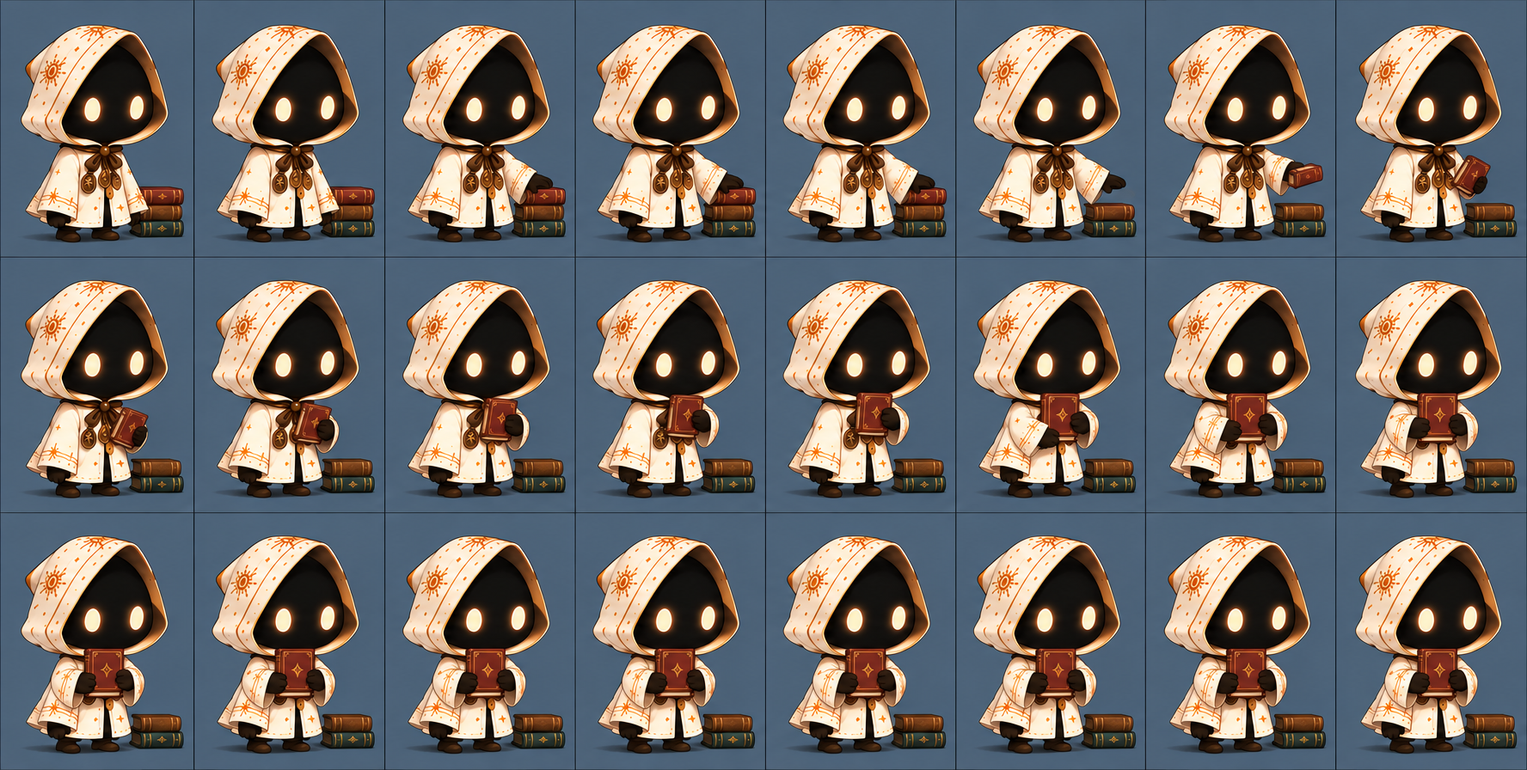
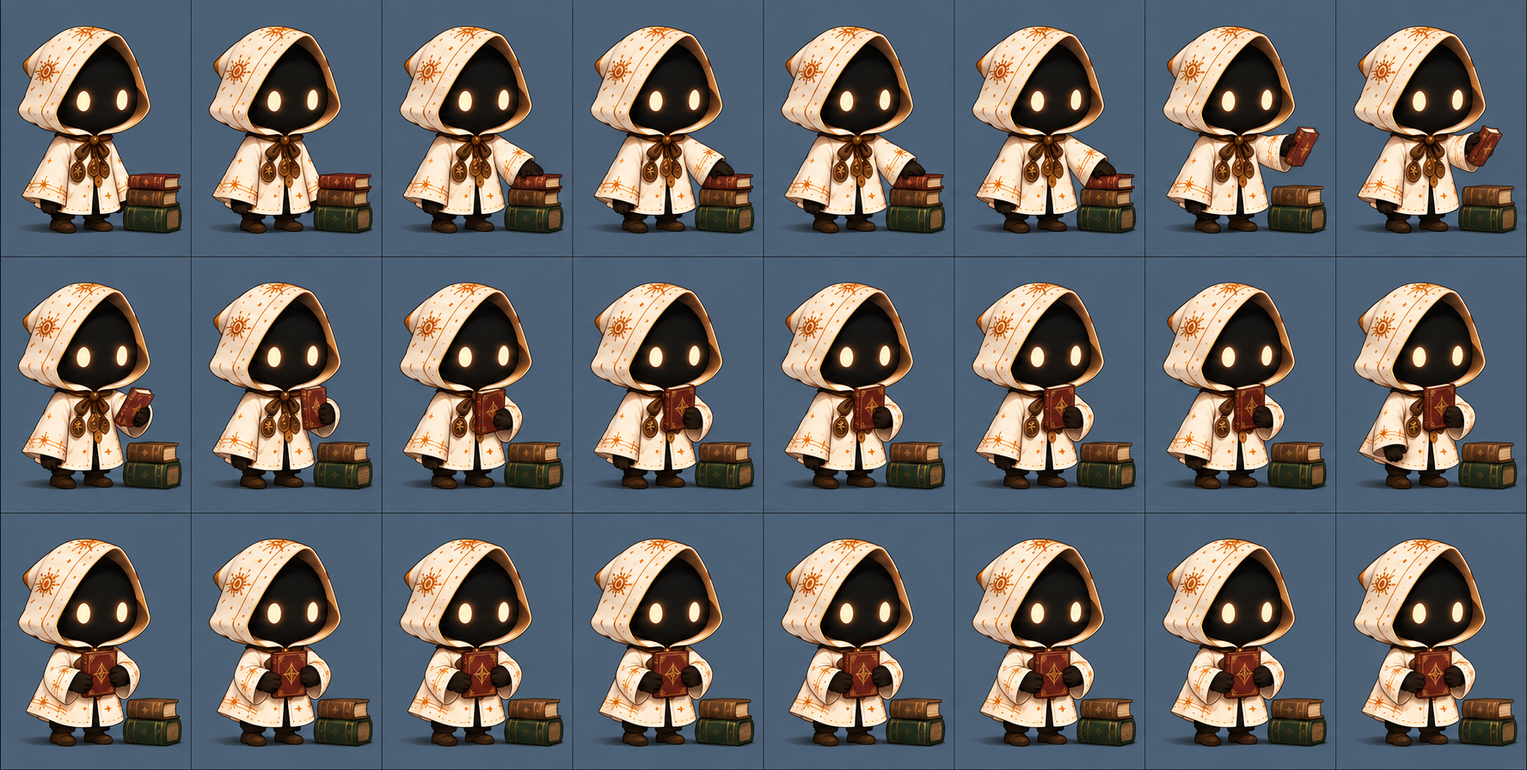
fix: Lumi's feet hold still in every loop; the pick-up has two hands
Chanté: "her feet look a little jittery". With the baked shadow gone the boots'
edge sat on bare floor, and each loop took the boots' upper rows from its own
sheet (0.25-0.38px at the hand-over; 1.5px in the pick-up). The strip below
the hem around the boots is now the rest drawing's in every cell, the breath
included, except where a cell's own cloak hangs over it, and the moving
regions run to the ground. Boots move at most 0.004px in any loop.

Chasing the pick-up's step found its sheet had three hands (two on the book,
one still at the hem). Regenerated as v3, naming the resting hand and saying
it leaves the hem; two hands throughout.

The preview's held-parts check measures the boots from the hem down and has
--feet-only for the breath. Docs: design-system, art/README, the prompt file,
animation-pipeline (a hands check in the gates, a finding, two pitfalls, the
ledger row), art-direction.

diff --git a/scripts/cut-lumi-free.py b/scripts/cut-lumi-free.py
@@ -97,19 +97,42 @@ col0 = int((hx.min() + hx.max()) / 2)
 face_left = int(np.where(face(rest)[0][:head_rows].any(axis=0))[0].min())
 feet_right = int(np.where((rest[FEET_Y - 10:FEET_Y, :, 3] > 200).any(axis=0))[0].max())
 print(f'rest: hood centre col {col0}, head rows < {head_rows}, face from col {face_left}, boots to col {feet_right}')
+# The boots below the hem, held in every cell of every loop. With the baked shadow gone their edge sits on the
+# floor with nothing under it, and Chanté saw her feet jitter: the loops took the boots' upper rows from each
+# cell's own drawing (the holds stopped 8px above the feet), and the breath resampled them by up to 0.2px a frame.
+hem = int(np.where(((rest[:, :, 0] > 190) & (rest[:, :, 1] > 170) & (rest[:, :, 3] > 200)).any(axis=1))[0].max())
+boot_cols = np.where(((rest[FEET_Y - 4:FEET_Y + 1, :, :3].astype(int).sum(axis=2) < 200) & (rest[FEET_Y - 4:FEET_Y + 1, :, 3] > 200)).any(axis=0))[0]
+# Only the boots and legs — the opaque parts below the hem that reach the ground — never her hands hanging at the
+# hem, which leave in the hands and pick-up loops (a box over the boots brought a stub of the resting hand back).
+# The whole strip below the hem around the boots is REST's — boots, legs and the floor between and beside them — so
+# a sheet that draws a leg further out (the pick-up's, 1.5px) can't step either. The hands end at the hem, and a
+# prop stands right of `feet_right`, outside the strip.
+feet = np.zeros((H, W), bool)
+feet[hem + 1:, max(0, boot_cols.min() - 12):min(boot_cols.max() + 3, feet_right + 3)] = True
+feet_w = ndi.gaussian_filter(feet.astype(float), 1.0)[:, :, None]
+print(f'feet held: rows from {hem + 1}, cols {max(0, boot_cols.min() - 12)}–{min(boot_cols.max() + 2, feet_right + 2)}')
+
+
+def hold_feet(cell, base):
+    """`cell` with `base`'s boots below the hem, feathered — except where the cell's own cloak hangs over them (a hem
+    drawn lower in a pose), which stays in front; pasting the rest pose's leg there left a dark smudge on the cream."""
+    cloak = (cell[:, :, 0] > 190) & (cell[:, :, 1] > 170) & (cell[:, :, 3] > 200)
+    w = feet_w * (1 - ndi.gaussian_filter(ndi.binary_dilation(cloak, iterations=1).astype(float), 0.8))[:, :, None]
+    return straight(w * premul(base) + (1 - w) * premul(cell))
 
 
 def allowed(region):
     """Where a loop's moving part may be."""
     m = np.zeros((H, W), bool)
+    # Down to the ground: a hand hanging at the hem reaches below the boots' tops, and a region that stopped 8px above
+    # the feet kept the bottom of the resting hand after it had left. The boots are held separately (`hold_feet`).
     if region == 'left':          # her right arm, on the viewer's left, beside the hood but never over the face
-        m[:FEET_Y - 8, :col0] = True
+        m[:, :col0] = True
         m[:head_rows, face_left - 2:] = False
     elif region == 'front':       # both hands, below the chin
-        m[head_rows:FEET_Y - 8] = True
+        m[head_rows:] = True
     elif region == 'below-head':  # arms, hands and what they carry, and a prop standing beside her
-        m[head_rows:FEET_Y - 8] = True
-        m[head_rows:, feet_right + 3:] = True
+        m[head_rows:] = True
     return m
 
 
@@ -219,12 +242,13 @@ for spec in LOOPS:
         joins += [(moving[-1] - k, k) for k in range(spec.get('ease', 0))]
     for i, k in joins:
         cells[i] = ease(cells[i], base, (k + 1) / (spec['ease'] + 1))
+    cells[:] = [hold_feet(c, base) for c in cells]
     if with_prop:
         cells[:0] = [with_prop(t) for t in PROP_FADE]
 
 rises = [BREATH_RISE * (1 - np.cos(2 * np.pi * i / BREATH_FRAMES)) / 2 for i in range(BREATH_FRAMES)]
 lids = lambda cell, keep: cell if keep is None else eyes_shut(cell, keep)
-rows = [[breathe(lids(rest, keep), r, FEET_Y, FIGURE_H) for r in rises] for keep in (None, 0.5, 0.2)]
+rows = [[hold_feet(breathe(lids(rest, keep), r, FEET_Y, FIGURE_H), rest) for r in rises] for keep in (None, 0.5, 0.2)]
 rows += [cut[spec['name']] for spec in LOOPS]
 cols = max(len(r) for r in rows)
 body = np.zeros((H * len(rows), W * cols, 4), dtype=np.uint8)

diff --git a/scripts/preview-lumi-loop.py b/scripts/preview-lumi-loop.py
@@ -72,12 +72,17 @@ def offset(ref, a, mask):
 
 
 head = np.zeros((H, W), bool); head[:HEAD_ROWS, held_from:] = True
-boots = np.zeros((H, W), bool); boots[FEET_Y - 10:FEET_Y + 2] = True
+# the boots from just below the hem: rows closer to the feet alone missed boots taken from each cell's drawing,
+# which jittered once no baked shadow hid their edge (2026-09-13)
+boots = np.zeros((H, W), bool); boots[FEET_Y - 14:FEET_Y + 2] = True
+if '--feet-only' in sys.argv:   # a loop whose head moves by design (the breath)
+    head[:] = False
 ref = cell(cells[0])[:, :, 3].astype(float) / 255
 worst = 0.0
 for c in sorted(set(cells)):
     a = cell(c)[:, :, 3].astype(float) / 255
-    (hx, hy), (bx, by) = offset(ref, a, head), offset(ref, a, boots)
+    (hx, hy) = offset(ref, a, head) if head.any() else (0.0, 0.0)
+    (bx, by) = offset(ref, a, boots)
     m = max(abs(hx), abs(hy), abs(bx), abs(by))
     worst = max(worst, m)
     if m > 0:

diff --git a/docs/animation-pipeline.md b/docs/animation-pipeline.md
@@ -64,6 +64,7 @@ python3 scripts/measure-lumi-sheet.py art/<sheet>.png
 | Eyes dx | moves only in a glance phase | stray eye drift: hold the face |
 | Dirt pixels | only where dirt is meant | specks on the ground: plainer ground |
 | A phase present | every phase in the brief has frames | the generator skipped it: ask for it alone, or plan the reverse replay |
+| Hands | two in every frame — by eye, zoomed on the lower body at each phase (no number sees anatomy) | a third hand: name which hand moves and where it leaves from ("her right hand, the one resting at the hem"), never "her other hand" |
 | Every step fails the IoU gate | — | a pose set, not an animation: usable as a *character* (one cell, breath and blink synthesised from it — the lantern sheet, 2026-09-12), never as a loop |
 
 A sheet that passes all gates has, so far, needed one cut and one review round. A sheet that fails one has needed three.
@@ -107,7 +108,7 @@ Newest first. *Rounds* = messages from Chanté that sent the work back. *Wall cl
 
 | Date | Animation | Sheets generated | Rounds | Wall clock | Touch points | What cost the most | What it taught (→ where it is written) |
 |---|---|---|---|---|---|---|---|
-| 2026-09-13 | The hands-free Lumi (`art-direction.md` §4a): the hub, a model sheet, and three loops — the wave again (24 frames, 120 ms), hands together (16, 200 ms, an idle variation), a book pick-up played back as the set-down (27 cells, 62 frames, 140 ms, a dev-only action) — tier 3 | 6 runs, $0.66 est.: the hub 1 run (4 of 4 passed), the model sheet 1 (1 of 2), the idle 1 (1 of 2), the wave 1 (1 of 2), the pick-up 2 (v1 kept three books on the stack; v2 1 of 3 chosen) | not yet reviewed | ~35 min from the first run (05:21) to wired and checked (05:50), with the pieces prototype built in parallel by a subagent | 1 new cut script + helper module, the preview script, 2 components, 8 docs | The cut, again, and the scripts: a ruled-line fix that also painted over a darkening ground and cut the figures in half (caught by uneven row scales), the grey-blue gap between her boots, and the cloak swapping shape where a loop from another sheet leaves the rest drawing | a drawn hub makes first-run passes the norm (4 of 5 sheets); with loops from several sheets, hold every one to one rest drawing and ease the joins; a prop fades in and out; the held-parts check caught nothing only because the holds were right, and cost nothing to run → stage 4, backlog, Prompt lab findings, `art/README.md`, `decisions.md` |
+| 2026-09-13 | The hands-free Lumi (`art-direction.md` §4a): the hub, a model sheet, and three loops — the wave again (24 frames, 120 ms), hands together (16, 200 ms, an idle variation), a book pick-up played back as the set-down (27 cells, 62 frames, 140 ms, a dev-only action) — tier 3 | 7 runs, $0.78 est.: the hub 1 run (4 of 4 passed), the model sheet 1 (1 of 2), the idle 1 (1 of 2), the wave 1 (1 of 2), the pick-up 3 (v1 kept three books on the stack; v2 drew a third hand, found after review; v3 chosen) | 1 — "her feet look a little jittery", once the baked shadow came off: the boots from each sheet, fixed with a hold, no new sheet. The pick-up's third hand was Claude's find, not a review round | ~35 min from the first run (05:21) to wired and checked (05:50), with the pieces prototype built in parallel by a subagent | 1 new cut script + helper module, the preview script, 2 components, 8 docs | The cut, again, and the scripts: a ruled-line fix that also painted over a darkening ground and cut the figures in half (caught by uneven row scales), the grey-blue gap between her boots, and the cloak swapping shape where a loop from another sheet leaves the rest drawing | a drawn hub makes first-run passes the norm (4 of 5 sheets); with loops from several sheets, hold every one to one rest drawing and ease the joins; a prop fades in and out; the held-parts check caught nothing only because the holds were right, and cost nothing to run → stage 4, backlog, Prompt lab findings, `art/README.md`, `decisions.md` |
 | 2026-09-13 | The wave (`lumi-wave.png`, 24 frames, 120 ms, a reaction on arrival) — tier 3 | 1 run of 4 candidates, generated by Claude (`gen-lumi-sheet.py`); 1 passed every gate | 2 — the sheet approved on first sight; the cut sent back twice ("she jumps around a little bit", then "still jittering a bit, mostly up and down") | ~2 h 15 (00:19 first run → the phase holds), incl. writing the generator and the Prompt lab | 2 scripts (+ the generator) + 2 components + 7 docs | The cut, not the sheet: a hand that widens her on one side broke centring on the body; settling on the head alone missed five cells dropped 2–4px (placed by the matte's lowest row) — found by measuring the held parts of the cut cells, fixed by aligning on them and holding everything but the arm; blink rows for 24 cells made the sheet 917 KB (dropped, then the hold: 461 KB) | the prompt was the bottleneck, not the generator; judge the sheet's motion as a GIF before the cut; a passing sheet still needs holds — align on and hold everything but the moving part, then hold per phase inside it; measure the *cut* cells on alpha before review; a short gesture needs no blink rows → stage 4 and 6, Pitfalls, Prompt lab findings, `art/README.md`, `decisions.md`, backlog #1 |
 | 2026-09-12 | The lantern character (`lumi-lantern-idle.png`): one rest cell, a synthesised nine-frame breath at 320 ms, blink lids, six heads | 1 (Chanté's; a pose sheet — failed the IoU gate as a loop, used as the character) | 0 before the first review | ~20 min (07:13 sheet added → 07:32 commit) | 2 scripts + 2 components + 5 docs | Two things the cut had never met — the lantern's light pool on the ground and a sheet with no blink row — and the head crop's chin line (0.44 → 0.53 of her height, one debug round) | a pose sheet is a character, not a loop; breath and blink can be synthesised from one cell; crop a titled sheet before measuring → `art/README.md`, `decisions.md` |
 | 2026-09-12 | Playful foot with a glance (`lumi-idle-foot.png`, 15 cells, 21 frames, 120 ms) | 3 (`lumi-playful-foot` → `lumi-idle` → `lumi-idle-foot`) | 5 | ~2 h 05 (03:10 → 05:16) | 7 files + 4 docs | Sheet 1 was poses, not in-betweens (a whole sheet and two rounds lost); anchoring on the face (one round); a fade longer than the frame (one round); an accidental gesture removed and then drawn (one sheet, one round) | measure before judging; one drawing, only the moving part changes; a loop is an order over cells; hold a head cel per phase; fade ≤ 80% of frame → `art/README.md`, `decisions.md` |
@@ -158,6 +159,7 @@ Newest first. *Evidence* names the runs (prompt file · version · candidate).
 
 | Date | Finding | Evidence | Status |
 |---|---|---|---|
+| 2026-09-13 | **Name which hand moves, and where from.** "Her other hand comes across and holds the book too" drew a third hand in the chosen v2: two on the book, one still at the hem. It passed every gate and a review, and was found only chasing a 1.5px step in her boots. Naming the resting hand and saying it leaves the hem gave two hands in two of three v3 candidates, one of them showing the hand lift. | lumi-free-pickup · v2 · `-1` → v3 · `-1`, `-2` | held once |
 | 2026-09-13 | **A drawn hub as the reference.** Every hands-free sheet attached one drawing, the hub, and four of five passed on their first run (the fifth on its second); the loops held the head at IoU ≥ 0.985 on every step. | lumi-free-idle · v1 · `-1`; lumi-free-wave · v1 · `-1`; lumi-model-sheet · v1 · `-1`; lumi-free-rest · v1 | held on four sheets → move into the stage 2 template once the reference path is settled |
 | 2026-09-13 | **Say what an object leaves behind.** Asked to lift the top book off a stack, both candidates kept three books on it; saying "from frame 7 the stack is only the green and the brown book, and no other book appears" fixed it in three of three. | lumi-free-pickup · v1 → v2 | held once |
 | 2026-09-13 | **Name the moving object by colour.** "The dark red book on top" was the one lifted in five of five candidates. | lumi-free-pickup · v1, v2 | held once |
@@ -191,6 +193,8 @@ Everything the generator gets wrong and the cut already corrects is in the READM
 - **Docs after the merge.** The row map in `design-system.md`, the README table and `features.md` go in the same commit as the cut, or the next session reads a stale map and cuts over the wrong row.
 - **Trusting a passing sheet to cut still.** The gates judge the sheet; they do not judge the cut. The approved wave jumped twice once cut. Measure the cut cells' held parts and the moving side's coverage (stage 6) before any review.
 - **Measuring movement on colour thresholds.** The WebP's lossy colour turns compression noise into a 1–2px "hem shift" that isn't there; its alpha is lossless. Measure positions and coverage on alpha.
+- **Trusting the gates for anatomy.** They measure the head and the frame; they can't count hands. Look at the lower body of every phase zoomed before approving a sheet — the approved pick-up held a book in two hands while a third hung at the hem.
+- **Taking away what hid an edge.** Removing the baked shadow exposed the boots' edge, and a 0.3px shift at a hand-over the shadow had hidden read as jittery feet. When a layer comes off (a shadow, a glow, a ground), measure what it covered — the held-parts check measured only the boots' last rows and passed.
 - **A hold that blends in a region with a hand in it.** Holding the lower cloak from the rest pose brought back its hanging hand as a second hand, and faded the rising one at the seam. Keep anything dark in either cell out of a blend, and look at the seams at 3×.
 
 ---

diff --git a/docs/design-system.md b/docs/design-system.md
@@ -136,7 +136,7 @@ A chapter opening, not a card (2026-09-12: the boxed `.card.plate` read as a wid
 ### Lumi sprites (`components/chat/LumiSprite.tsx`)
 The single source of Lumi's drawings.
 
-**The body is the hands-free Lumi** (2026-09-13, a proposal on `ux/lumi-hands-free`; `docs/art-direction.md` §4a, bet 8): `public/lumi-free.webp`, cut by `scripts/cut-lumi-free.py` (helpers in `scripts/lumi_cut.py`), a 27×6 grid of 176×208 cells (wider than 160 so a prop fits beside her; her hood's centre sits at 45% of the cell). Rows 0–2 the nine-cell **breath** with open, half-shut and shut eyes; row 3 the 24-cell **wave** (`art/lumi/lumi-free-wave.png`); row 4 **hands**, 16 cells, her empty hands meeting in front and parting (`lumi-free-idle.png`); row 5 **pickup**, three cells fading a stack of books in and 24 of her taking the top book and holding it to her chest (`lumi-free-pickup.png`), played forward, held, and backwards as the set-down (`LUMI_LOOP_CELLS`). The last three have their eyes open only. The cut is one spec per loop (`LOOPS`: sheet, cells, the region the moving part may be in, rest cells, phase holds, monotone lower cloak, ease, prop), and **every loop is held to one drawing**, the wave sheet's first cell: each cell is scaled to `FIGURE_H`, placed by the hood, aligned on what holds in that loop (the right half for the wave, the head and boots otherwise) and keeps that drawing's pixels except where its moving part differs; the two cells next to a rest cell ease from the rest drawing into the loop's own, anything dark kept out of the blend (each sheet draws the cloak a little differently, and it swapped shape at the join); a prop is kept in the rest cells and fades in over three cells. The matte cuts her shadow away with the ground (`Sheet(shadow=False)`): the page draws it (Lumi companion → her shadow and the room's light). It also cuts out ground enclosed between the boots (it showed as a grey-blue patch), and ruled lines a generator draws between cells are painted over before segmentation. Held parts on the cut cells, measured on alpha by `scripts/preview-lumi-loop.py`: hood and boots move 0.00px through the wave and the hands, ≤ 0.5px through the pick-up (the stack beside her boots). The sheet is 899 KB (the lantern body was 461 KB); the pick-up's rows are most of it.
+**The body is the hands-free Lumi** (2026-09-13, a proposal on `ux/lumi-hands-free`; `docs/art-direction.md` §4a, bet 8): `public/lumi-free.webp`, cut by `scripts/cut-lumi-free.py` (helpers in `scripts/lumi_cut.py`), a 27×6 grid of 176×208 cells (wider than 160 so a prop fits beside her; her hood's centre sits at 45% of the cell). Rows 0–2 the nine-cell **breath** with open, half-shut and shut eyes; row 3 the 24-cell **wave** (`art/lumi/lumi-free-wave.png`); row 4 **hands**, 16 cells, her empty hands meeting in front and parting (`lumi-free-idle.png`); row 5 **pickup**, three cells fading a stack of books in and 24 of her taking the top book and holding it to her chest (`lumi-free-pickup.png`), played forward, held, and backwards as the set-down (`LUMI_LOOP_CELLS`). The last three have their eyes open only. The cut is one spec per loop (`LOOPS`: sheet, cells, the region the moving part may be in, rest cells, phase holds, monotone lower cloak, ease, prop), and **every loop is held to one drawing**, the wave sheet's first cell: each cell is scaled to `FIGURE_H`, placed by the hood, aligned on what holds in that loop (the right half for the wave, the head and boots otherwise) and keeps that drawing's pixels except where its moving part differs; the two cells next to a rest cell ease from the rest drawing into the loop's own, anything dark kept out of the blend (each sheet draws the cloak a little differently, and it swapped shape at the join); a prop is kept in the rest cells and fades in over three cells; and **her boots below the hem are held** in every cell of every loop, the breath included, except where a cell's own cloak hangs over them (`hold_feet`) — with no baked shadow under them Chanté saw her feet jitter: the loops took the boots' upper rows from each sheet's drawing (0.25–0.38px shifts at the start of the wave and the hands) and the regions stopped 8px above the ground, which also kept a stub of a resting hand. The moving regions now run to the ground. The matte cuts her shadow away with the ground (`Sheet(shadow=False)`): the page draws it (Lumi companion → her shadow and the room's light). It also cuts out ground enclosed between the boots (it showed as a grey-blue patch), and ruled lines a generator draws between cells are painted over before segmentation. Held parts on the cut cells, measured on alpha by `scripts/preview-lumi-loop.py`: hood and boots move 0.00px through the wave and the hands, ≤ 0.5px through the pick-up (the stack beside her boots). The sheet is 899 KB (the lantern body was 461 KB); the pick-up's rows are most of it.
 
 The heads, and the lantern body kept beside the hands-free one until it is decided, are cut by `scripts/cut-lumi-idle.py`. `public/lumi-heads.png` (from `art/lumi/lumi-lantern-idle.png`, the lantern character, 2026-09-12): one row of 176px square cells, the hood 172px wide with its bottom on row 161 — neutral · blink · happy · curious · excited · sleepy, each from one of the sheet's sixteen cells (1 · 1 with the eyes shut · 6 · 11 · 12 · 7), cut under the chin where the hood's rim wraps beneath it. `public/lumi-idle.webp` (from `art/lumi/lumi-wave.png`, 2026-09-13): a 24×4 grid of 160×208 cells (wider than the earlier 144 for the lantern's light on the ground): rows 0–2 the nine-cell **breath** loop with open, half-shut and shut eyes (so blinking and the loop run together), row 3 the 24-cell **wave** with its eyes open (`LUMI_LOOP_EYES` lists each loop's eye rows; a blink mid-wave shows the open cell — blink rows for the wave took the sheet from 525 to 917 KB). **A loop is an order over its row's cells** (`LUMI_LOOP_CELLS`; `LUMI_LOOP_FRAMES` is its length) and a cell may play more than once; every loop starts and ends at the rest frame, so they hand over there. The lantern sheet's sixteen cells are sixteen drawings — a pose set with expressions, not in-betweens (head IoU 0.83–0.96 per step against the 0.975 gate) — so they give the heads, never a loop. The wave sheet is 24 in-betweens of one drawing (0.986–0.997 per step) and both loops are made from it, so breath and wave hand over without a swap: the wave's cells, each row scaled to `FIGURE_H`, placed by the hood's right edge (her free hand widens her on the left), aligned on the parts that hold — the hood's right half, the lantern side, the boots — within 6px both ways and then to a quarter pixel (`align`), and **held**: every cell keeps the first cell's pixels except where the arm and the cloak it lifts are (`hold`: the difference in blobs, not outlines, on her free side, left of the face in the head rows, feathered), so the hood, eyes, lantern and boots stay within half a pixel through the wave; and **held per phase** — the rest cells (0–1, 22–23) are the first cell exactly, the waves (8–15) keep cell 8's arm and cloak with only the hand and wrist from each cell (`hold_hand`), and the lower cloak on her free side only lifts through the rise (2–7) and only drops through the fall (16–21): a cell that moves back keeps the last good cell's lower cloak, except around either hand (`monotone_lower`); the breath is the wave's first cell stretched up to 2px at the hood top with the feet held (`breathe`: a cubic resample on premultiplied channels anchored on the feet baseline, the rise eased over nine frames — the 1–2px the slow-idle sheet drew, from one drawing, so nothing else moves); the blink rows bring a lid down over her own eyes (`eyes_shut`: the lid is the face's black, half-shut keeps the bottom half of each eye, shut a thin bright lens, and the eye's halo on the face goes with the lid so no ring is left). The matte flood-fills the ground from outside the figure (so the cream hood survives); on the grey-blue ground the 2px edge band is de-matted against the ground using the nearest interior pixel as the figure's own colour, the shadow under the feet is read by its blue cast and redrawn in the cream sheets' warm tone (`SHADOW_RGB`), and the lantern's light on the ground — a warm blend of the ground and an orange light — is lifted off as a translucent warm glow (`GLOW_RGB`, ≤ 0.55 alpha), so on the paper she lights it a little. She stands `FIGURE_H` = 173px tall in the cell, what the earlier breath rest frame stood at, so she keeps her size on the page. The earlier character's loops (the slow-idle breath and sway, the playful foot with its per-row scaling, quarter-pixel settle and per-phase head hold) are retired with her; the techniques stay in git history and `art/README.md`. `LumiSprite` draws one cell at a height via `background-position`; `headCell` / `idleCell` address them. A new state is a new cell, never a new component. Adding a sheet — the prompt, `scripts/measure-lumi-sheet.py`, `scripts/preview-lumi-loop.py` and what the cut corrects — is written up in `art/README.md`; the process in `docs/animation-pipeline.md`.
 

diff --git a/art/prompts/lumi-free-pickup.md b/art/prompts/lumi-free-pickup.md
@@ -13,7 +13,7 @@ Generated with `python3 scripts/gen-lumi-sheet.py art/prompts/lumi-free-pickup.m
 
 ## Settings
 
-- version: v2
+- version: v3
 - model: gpt-image-2.5-sunburst
 - size: 1776x896
 - quality: high
@@ -21,7 +21,7 @@ Generated with `python3 scripts/gen-lumi-sheet.py art/prompts/lumi-free-pickup.m
 - grid: 3x8
 - reference: art/lumi/lumi-free-rest.png crop=40,40,720,1000 scale=0.6
 
-## Prompt (v2)
+## Prompt (v3)
 
 ```text
 Draw an animation sprite sheet of the character in the attached image picking up a book: one base drawing, copied from the attachment, and in every frame only her arms, her small dark hands, the front edges of the cloak just above them, and one book move. The hood with its sun embroidery, the black face and both glowing eyes, the ribbon bow with its brass medallions, the rest of the cloak and its folds, and the boots stay exactly the same, pixel for pixel, in every frame.
@@ -32,8 +32,8 @@ Phases, in frame order:
   frames 1–2: the rest pose, exactly as the attached image, both hands empty at her sides, the stack beside her.
   frames 3–6: her left hand (on the viewer's right) reaches out to the dark red book on top of the stack and takes hold of it.
   frames 7–14: she lifts the red book up and in, in small even steps, until she holds it upright against her chest, just below the medallions, its cover facing the viewer.
-  frames 15–20: her other hand comes across and holds the book too, both hands on it.
-  frames 21–24: she stands holding the book with both hands, still.
+  frames 15–20: her right hand (on the viewer's left), the one that was resting at the hem, lifts from the hem and comes across to hold the book too. She has only two hands: from frame 17 on there is no hand at the hem, both of her hands are on the book.
+  frames 21–24: she stands holding the book with both hands, still, no hand at the hem.
 24 frames in total, small even steps, slow in and slow out. Frame 1 is the attached pose with the stack beside her.
 
 Layout: a regular grid of 3 rows × 8 columns, every cell the same size, generous margins, the figure and the stack in the same place and at the same size in every cell, feet on one baseline.
@@ -45,6 +45,7 @@ Same style, line weight, palette and lighting as the attachment. No lantern, no 
 
 - **v1** — first path: the hub as the reference; the object named by colour so the one that moves is unambiguous; the stack at hand height so the body can hold.
 - **v2** — one change: say the stack loses the book (both v1 candidates kept three books on it after the lift). The ruled lines both drew are handled by the measure script, not the words.
+- **v3** — one change: say which hand joins and that it leaves the hem (the chosen v2 drew a third hand: "her other hand comes across" added one rather than moving the resting one).
 
 ## Runs
 
@@ -54,8 +55,11 @@ Appended by `scripts/gen-lumi-sheet.py`; the verdict column is filled by hand fr
 |---|---|---|---|---|---|---|---|
 | 2026-09-13 05:27 | v1 | gpt-image-2.5-sunburst · high · 1776x896 | `v1-2.5-sunburst-0913-052732-1.png` | 1 in 1 rows / 24 | 2402 / 2069 (run) | $0.04 | fail · the stack keeps three books: once the red book is lifted a new one takes its place; and ruled lines between the cells (1 frame found). The movement itself reads, by eye: reach 3–6, lift 7–14, the second hand 15–20, held 21–24 |
 | 2026-09-13 05:27 | v1 | gpt-image-2.5-sunburst · high · 1776x896 | `v1-2.5-sunburst-0913-052732-2.png` | 1 in 1 rows / 24 | 2402 / 2069 (run) | $0.04 | fail · the same two faults as 1 (three books stay on the stack; ruled lines) |
-| 2026-09-13 05:34 | v2 | gpt-image-2.5-sunburst · high · 1776x896 | `v2-2.5-sunburst-0913-053404-1.png` | 48 in 3 rows / 24 | 3726 / 3103 (run) | $0.04 | **pass, chosen** — re-measured with ruled lines painted over: 24/24, rows equal (0.684), head IoU 0.985–0.997 every step, last→first 0.988; three books before the lift, two after; reach 3–6, lift 7–12, the other hand joins 13–16, held 17–24 with the book one size throughout. (The 48 on arrival was the stack counted as its own figures and the ruled lines, before the fix.) → `art/lumi/lumi-free-pickup.png` |
+| 2026-09-13 05:34 | v2 | gpt-image-2.5-sunburst · high · 1776x896 | `v2-2.5-sunburst-0913-053404-1.png` | 48 in 3 rows / 24 | 3726 / 3103 (run) | $0.04 | **pass, chosen — but three hands** (found at the cut, after review, chasing a 1.5px step in her boots): from frame 13 two hands hold the book while her right hand still hangs at the hem; the gates can't see anatomy. Frames 1–12 (one hand on the book) are sound. — re-measured with ruled lines painted over: 24/24, rows equal (0.684), head IoU 0.985–0.997 every step, last→first 0.988; three books before the lift, two after; reach 3–6, lift 7–12, the other hand joins 13–16, held 17–24 with the book one size throughout. (The 48 on arrival was the stack counted as its own figures and the ruled lines, before the fix.) → `art/lumi/lumi-free-pickup.png` |
 | 2026-09-13 05:34 | v2 | gpt-image-2.5-sunburst · high · 1776x896 | `v2-2.5-sunburst-0913-053404-2.png` | 24 in 3 rows / 24 | 3726 / 3103 (run) | $0.04 | fail · phase compressed: every gate passes (IoU ≥ 0.989), but the book goes from the stack to her chest in one step (7→8) |
 | 2026-09-13 05:34 | v2 | gpt-image-2.5-sunburst · high · 1776x896 | `v2-2.5-sunburst-0913-053404-3.png` | 24 in 3 rows / 24 | 3726 / 3103 (run) | $0.04 | pass on the gates (IoU ≥ 0.993, the steadiest) but not chosen · the book is drawn smaller and lower in row 3 than in row 2, a pop at 16→17 |
+| 2026-09-13 06:34 | v3 | gpt-image-2.5-sunburst · high · 1776x896 | `v3-2.5-sunburst-0913-063457-1.png` | 24 in 3 rows / 24 | 3876 / 3103 (run) | $0.04 | pass on the gates (head IoU ≥ 0.984, rows within 1.4%) and two hands throughout, but not chosen · the resting hand vanishes from the hem between 13 and 16 instead of being seen to lift |
+| 2026-09-13 06:34 | v3 | gpt-image-2.5-sunburst · high · 1776x896 | `v3-2.5-sunburst-0913-063457-2.png` | 24 in 3 rows / 24 | 3876 / 3103 (run) | $0.04 | **pass, chosen** — 24/24, rows equal (0.718 / 0.718 / 0.715), head IoU ≥ 0.984 every step, last→first 0.990; two hands in every frame, checked zoomed on each phase: one at the hem and one on the book until 15, the resting hand lifting at 16, both on the book 17–24; three books before the lift, two after → `art/lumi/lumi-free-pickup.png` (replaces v2) |
+| 2026-09-13 06:34 | v3 | gpt-image-2.5-sunburst · high · 1776x896 | `v3-2.5-sunburst-0913-063457-3.png` | 24 in 3 rows / 24 | 3876 / 3103 (run) | $0.04 | fail · pops: head IoU 0.891 at 8→9 and 0.904 at 16→17, last→first 0.897 |
 
-v2 fixed the book count in all three candidates. Two of three still ruled lines between the cells.
+v2 fixed the book count in all three candidates; v3 fixed the third hand in two of three. Most candidates ruled lines between the cells.

diff --git a/art/README.md b/art/README.md
@@ -20,7 +20,7 @@ Source art, never served. Five folders, and one that is not committed:
 | `lumi/lumi-model-sheet.png` | **The model sheet, hands-free** (2026-09-13): at eye level front, three-quarter left, side, back, three-quarter right; below, four facings at an isometric room's angle | reference for poses and a resident Lumi; never cut |
 | `lumi/lumi-free-wave.png` | The wave without the lantern (2026-09-13): 24 in-betweens, rest 1–2 · rise 3–8 · waves 9–16 · fall 17–22 · rest 23–24; head IoU 0.988–0.997 | `scripts/cut-lumi-free.py` → `public/lumi-free.webp`: the breath (from its first cell) and row 3 |
 | `lumi/lumi-free-idle.png` | Hands together (2026-09-13): 16 in-betweens, her empty hands meet in front 2–7, rest 8–10, part 11–15; head IoU 0.988–0.998 | `cut-lumi-free.py` → row 4 |
-| `lumi/lumi-free-pickup.png` | The pick-up (2026-09-13, v2): a stack of three books beside her; she takes the red one 3–6, lifts it 7–12, both hands 13–16, holds it 17–24, and the stack is two books after; head IoU 0.985–0.997. Ruled lines between the cells, painted over by the scripts | `cut-lumi-free.py` → row 5 (forward, held, backwards as the set-down) |
+| `lumi/lumi-free-pickup.png` | The pick-up (2026-09-13, v3; v2 drew a third hand): a stack of three books beside her; she takes the red one 3–6, lifts it out and in 7–14, her resting hand leaves the hem 15–16, both hands hold it 17–24, and the stack is two books after; head IoU ≥ 0.984. Ruled lines between the cells, painted over by the scripts | `cut-lumi-free.py` → row 5 (forward, held, backwards as the set-down) |
 | `lumi/lumi-idle.png` | A byte-identical copy of `lumi-lantern-idle.png` | nothing — the cut reads `lumi-lantern-idle.png` |
 | `lumi/lumi-ref.png`, `lumi/lumi.png` | Reference drawings of the lantern character (a scene and a portrait), for prompting | nothing — never cut |
 | `archived/rali/rali-slow-idle.png` | The earlier character: breath · blink · sway, one pose, 1–2px movements | retired with the character — only the height reference for `scripts/measure-lumi-sheet.py` |
@@ -60,6 +60,7 @@ Rules for what a sheet may become: `docs/design-system.md` → Lumi sprites. The
 | Lines ruled between the cells (five of eight grid candidates, 2026-09-13) — a row reads as one figure | painted over before segmentation, in the measure script and `lumi_cut.Sheet`: a thin line (plain ground 4px either side) across most of the sheet |
 | Ground enclosed between the boots, which the flood from outside can't reach — a grey-blue patch between her feet | ground-coloured holes in her lowest quarter cut out (`lumi_cut.Sheet.matte`) |
 | Loops from different sheets draw the cloak a little differently (overlap 0.95 against the rest drawing), so it swaps shape where a loop leaves the rest cell | every loop held to one rest drawing, and the two cells next to a rest cell eased from it into their own, anything dark kept out of the blend (`cut-lumi-free.py`, `ease`) |
+| With no baked shadow, the boots' edge sits on bare floor, and boots redrawn a little differently by each sheet jitter as loops hand over (0.25–0.38px) | the boots below the hem held from the rest drawing in every cell, the breath included, except where the cell's own cloak hangs over them (`hold_feet`); regions run to the ground so a hand that leaves the hem leaves no stub. Measure the boots from the hem down, not only the last rows |
 | A prop in the sheet that isn't in the rest drawing (the book stack) pops in at the hand-over | kept in the loop's rest cells and faded in over three cells before the loop; played backwards, out (`prop`, `PROP_FADE`) |
 | A prop standing apart from her is segmented as extra figures | the closest spans in a row are joined until there are as many as the grid asks for (`lumi_cut.Sheet.frames`) |
 

diff --git a/docs/art-direction.md b/docs/art-direction.md
@@ -117,6 +117,7 @@ Newest first: what landed, what it showed, and what it changed in the plan.
 
 | Date | Step | What happened | What it changed |
 |---|---|---|---|
+| 2026-09-13 | Review of the shadows | Chanté: standing on the flagstones, but her feet a little jittery; the shadow follows the wave and the pick-up well; good in the Library, on Home, on the paper pages and in Safari. The jitter was the boots, redrawn by each sheet, exposed once the baked shadow came off; they are held now in every loop, except where a cell's cloak covers them. Chasing a last 1.5px step in the pick-up found the approved sheet had three hands (two on the book, one still at the hem); regenerated with the resting hand named (v3), two hands throughout | Every layer taken off the sprite exposes what it hid, and no gate counts hands; a puppet would have one pair of boots and two hands by construction (bet 2) |
 | 2026-09-13 | Shadows and light, drawn by the page | Chanté looked at the review server ("looks okay"), is open to puppeting, and named the shadow as what made her look superimposed. The cut no longer bakes a shadow in; the companion draws a contact shadow that darkens the floor, a cast shadow from her silhouette per room, and the room's light as a tint | Walking (§6) needs this anyway, and a puppet can cast its pieces' shadows the same way; next, a light computed from her position instead of one per room |
 | 2026-09-13 | 5 · wired, for review | The three loops cut by a new spec-driven script and served as the companion on `ux/lumi-hands-free`: hands as an idle variation, the wave on arrival, the pick-up from the dev cue strip. Hood and boots hold within 0.25px on the cut cells. Every loop is held to one rest drawing; the cloak is eased where a loop leaves it, because each sheet draws it a little differently | Loops from several sheets need one rest drawing and eased joins; that is the cost of paths as separate sheets, and a reason pieces may carry more than planned |
 | 2026-09-13 | 3 · the pieces test | Built by a subagent and published as a page: one drawing, a head moved on a mesh that bends down to the bow, eyes drawn in code with blink, sleepy, happy, curious, glances and a tilt, beside today's sprite. Checked in renders, not yet in a browser: no seam at the bow, no ring where the painted eyes were; blink, sleepy and happy read at 36px, glances barely | Awaiting Chanté's verdict (bets 1 and 2). Weak spots it names: the hood tilts stiffly, the eyes slide without foreshortening, the lids are straight |
